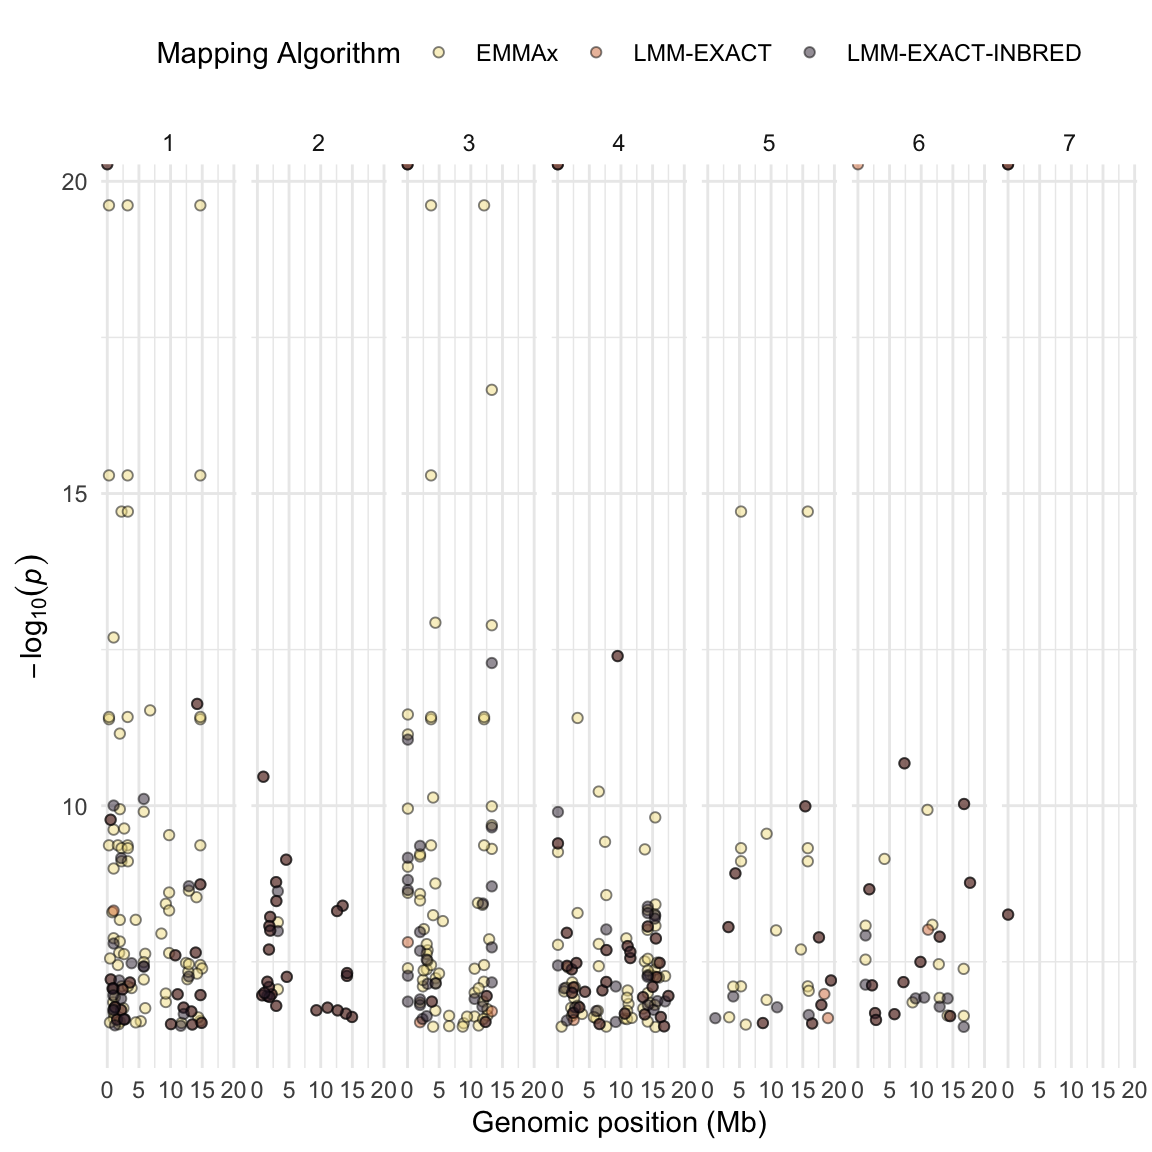
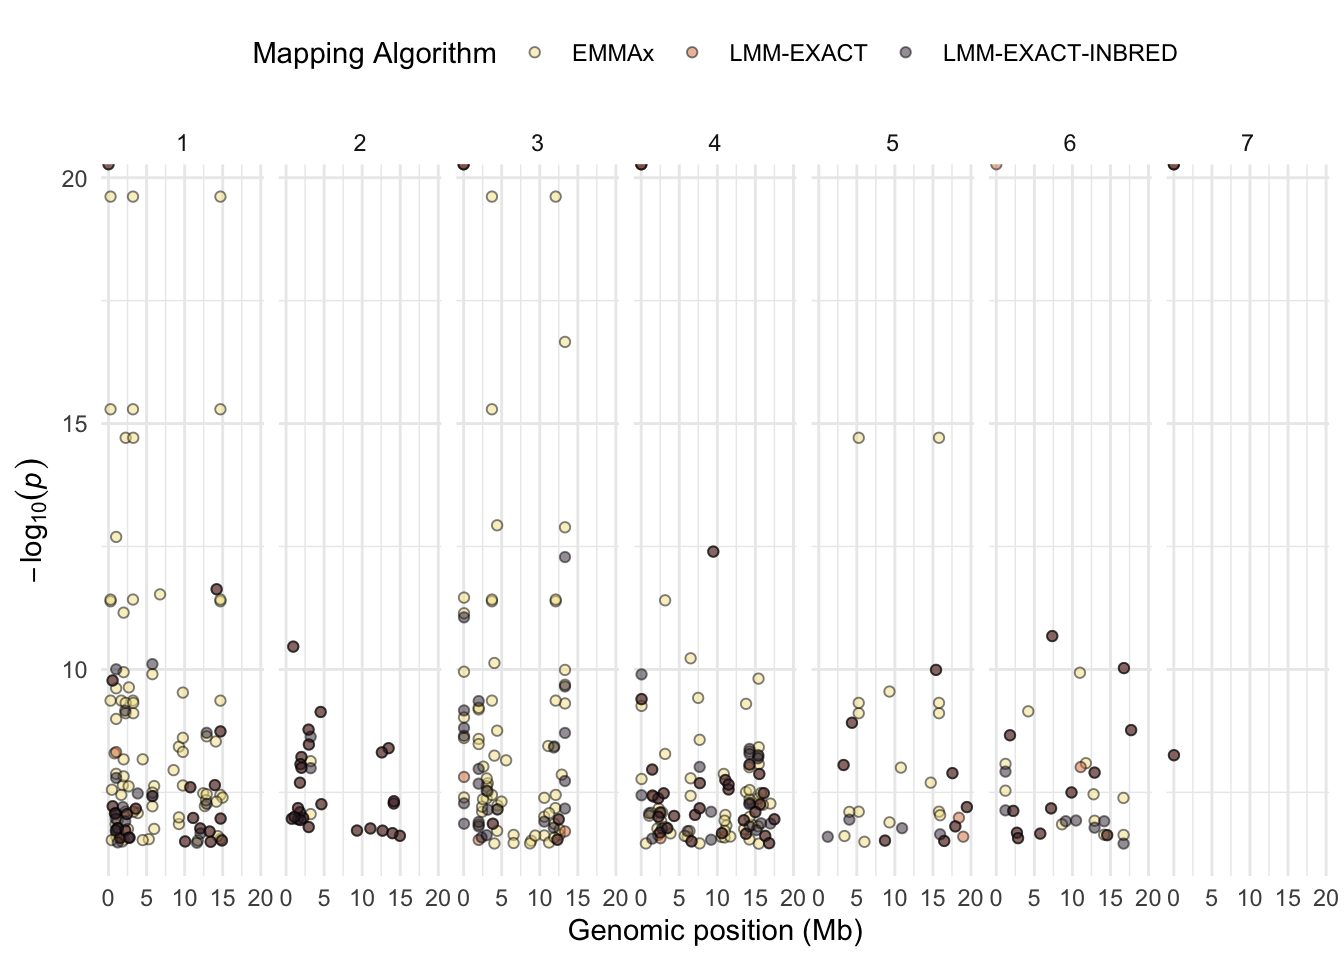
Build site.

diff --git a/docs/FPR_CI.html b/docs/FPR_CI.html
@@ -530,16 +530,16 @@ relative
 <div class="panel panel-default">
 <div class="panel-heading">
 <p class="panel-title">
-<a data-toggle="collapse" data-parent="#workflowr-checks" href="#strongRepositoryversionstrongahrefhttpsgithubcomsamwidmayerNemaScanPerformancetree9f9ac481d66dec1e7ccf409cbea393b0072bc824targetblank9f9ac48a"> <span class="glyphicon glyphicon-ok text-success" aria-hidden="true"></span> <strong>Repository version:</strong> <a href="https://github.com/sam-widmayer/NemaScan_Performance/tree/9f9ac481d66dec1e7ccf409cbea393b0072bc824" target="_blank">9f9ac48</a> </a>
+<a data-toggle="collapse" data-parent="#workflowr-checks" href="#strongRepositoryversionstrongahrefhttpsgithubcomsamwidmayerNemaScanPerformancetreefd7d15aa07459b457f68a9a663844574aa8e6fdctargetblankfd7d15aa"> <span class="glyphicon glyphicon-ok text-success" aria-hidden="true"></span> <strong>Repository version:</strong> <a href="https://github.com/sam-widmayer/NemaScan_Performance/tree/fd7d15aa07459b457f68a9a663844574aa8e6fdc" target="_blank">fd7d15a</a> </a>
 </p>
 </div>
[2 lines of base64/hex data omitted]
 <div class="panel-body">
 <p>
 Great! You are using Git for version control. Tracking code development and connecting the code version to the results is critical for reproducibility.
 </p>
 <p>
-The results in this page were generated with repository version <a href="https://github.com/sam-widmayer/NemaScan_Performance/tree/9f9ac481d66dec1e7ccf409cbea393b0072bc824" target="_blank">9f9ac48</a>. See the <em>Past versions</em> tab to see a history of the changes made to the R Markdown and HTML files.
+The results in this page were generated with repository version <a href="https://github.com/sam-widmayer/NemaScan_Performance/tree/fd7d15aa07459b457f68a9a663844574aa8e6fdc" target="_blank">fd7d15a</a>. See the <em>Past versions</em> tab to see a history of the changes made to the R Markdown and HTML files.
 </p>
 <p>
 Note that you need to be careful to ensure that all relevant files for the analysis have been committed to Git prior to generating the results (you can use <code>wflow_publish</code> or <code>wflow_git_commit</code>). workflowr only checks the R Markdown file, but you know if there are other scripts or data files that it depends on. Below is the status of the Git repository when the results were generated:
@@ -590,6 +590,40 @@ Message
 </tr>
 </thead>
 <tbody>
+<tr>
+<td>
+Rmd
+</td>
+<td>
+<a href="https://github.com/sam-widmayer/NemaScan_Performance/blob/fd7d15aa07459b457f68a9a663844574aa8e6fdc/analysis/FPR_CI.Rmd" target="_blank">fd7d15a</a>
+</td>
+<td>
+Sam Widmayer
+</td>
+<td>
+2020-09-08
+</td>
+<td>
+manhattan plotting of FPs
+</td>
+</tr>
+<tr>
+<td>
+html
+</td>
+<td>
+<a href="https://rawcdn.githack.com/sam-widmayer/NemaScan_Performance/eb77d6f66d73e175cc631f1ee8461f1ccfb779f6/docs/FPR_CI.html" target="_blank">eb77d6f</a>
+</td>
+<td>
+Sam Widmayer
+</td>
+<td>
+2020-09-08
+</td>
+<td>
+Build site.
+</td>
+</tr>
 <tr>
 <td>
 Rmd
@@ -783,7 +817,7 @@ algorithm                  0.1        0.2        0.3        0.4         0.5     
 EMMAx                 29168.08   302171.7   121634.5   664957.0   616730.90   832111.46   1137287.32   1300000.9   1370206.6
 LMM-EXACT           1365222.36   700487.1   317952.0    94746.9    67380.48    37879.09     49053.28    192453.4    105800.8
 LMM-EXACT-INBRED    1328408.15   628167.4   373586.8   191419.0   101965.61   223142.83    376206.19    430756.8    528757.2</code></pre>
-<p><img src="figure/FPR_CI.Rmd/unnamed-chunk-2-1.png" width="576" style="display: block; margin: auto;" /></p>
+<p><img src="figure/FPR_CI.Rmd/unnamed-chunk-2-1.png" width="672" style="display: block; margin: auto;" /></p>
 <p>
 <button type="button" class="btn btn-default btn-xs btn-workflowr btn-workflowr-fig" data-toggle="collapse" data-target="#fig-unnamed-chunk-2-1">
 Past versions of unnamed-chunk-2-1.png
@@ -808,6 +842,17 @@ Date
 <tbody>
 <tr>
 <td>
+<a href="https://github.com/sam-widmayer/NemaScan_Performance/blob/eb77d6f66d73e175cc631f1ee8461f1ccfb779f6/docs/figure/FPR_CI.Rmd/unnamed-chunk-2-1.png" target="_blank">eb77d6f</a>
+</td>
+<td>
+Sam Widmayer
+</td>
+<td>
+2020-09-08
+</td>
+</tr>
+<tr>
+<td>
 <a href="https://github.com/sam-widmayer/NemaScan_Performance/blob/4e1e4446cd5aa5df1ee51063d5fb924e3b3794d7/docs/figure/FPR_CI.Rmd/unnamed-chunk-2-1.png" target="_blank">4e1e444</a>
 </td>
 <td>
@@ -821,7 +866,82 @@ Sam Widmayer
 </table>
 </div>
 </div>
-<p><img src="figure/FPR_CI.Rmd/unnamed-chunk-2-2.png" width="576" style="display: block; margin: auto;" /><img src="figure/FPR_CI.Rmd/unnamed-chunk-2-3.png" width="576" style="display: block; margin: auto;" /></p>
+<p><img src="figure/FPR_CI.Rmd/unnamed-chunk-2-2.png" width="672" style="display: block; margin: auto;" /></p>
+<p>
+<button type="button" class="btn btn-default btn-xs btn-workflowr btn-workflowr-fig" data-toggle="collapse" data-target="#fig-unnamed-chunk-2-2">
+Past versions of unnamed-chunk-2-2.png
+</button>
+</p>
+<div id="fig-unnamed-chunk-2-2" class="collapse">
+<div class="table-responsive">
+<table class="table table-condensed table-hover">
+<thead>
+<tr>
+<th>
+Version
+</th>
+<th>
+Author
+</th>
+<th>
+Date
+</th>
+</tr>
+</thead>
+<tbody>
+<tr>
+<td>
+<a href="https://github.com/sam-widmayer/NemaScan_Performance/blob/eb77d6f66d73e175cc631f1ee8461f1ccfb779f6/docs/figure/FPR_CI.Rmd/unnamed-chunk-2-2.png" target="_blank">eb77d6f</a>
+</td>
+<td>
+Sam Widmayer
+</td>
+<td>
+2020-09-08
+</td>
+</tr>
+</tbody>
+</table>
+</div>
+</div>
+<p><img src="figure/FPR_CI.Rmd/unnamed-chunk-2-3.png" width="672" style="display: block; margin: auto;" /></p>
+<p>
+<button type="button" class="btn btn-default btn-xs btn-workflowr btn-workflowr-fig" data-toggle="collapse" data-target="#fig-unnamed-chunk-2-3">
+Past versions of unnamed-chunk-2-3.png
+</button>
+</p>
+<div id="fig-unnamed-chunk-2-3" class="collapse">
+<div class="table-responsive">
+<table class="table table-condensed table-hover">
+<thead>
+<tr>
+<th>
+Version
+</th>
+<th>
+Author
+</th>
+<th>
+Date
+</th>
+</tr>
+</thead>
+<tbody>
+<tr>
+<td>
+<a href="https://github.com/sam-widmayer/NemaScan_Performance/blob/eb77d6f66d73e175cc631f1ee8461f1ccfb779f6/docs/figure/FPR_CI.Rmd/unnamed-chunk-2-3.png" target="_blank">eb77d6f</a>
+</td>
+<td>
+Sam Widmayer
+</td>
+<td>
+2020-09-08
+</td>
+</tr>
+</tbody>
+</table>
+</div>
+</div>
 <br>
 <p>
 <button type="button" class="btn btn-default btn-workflowr btn-workflowr-sessioninfo" data-toggle="collapse" data-target="#workflowr-sessioninfo" style="display: block;">
